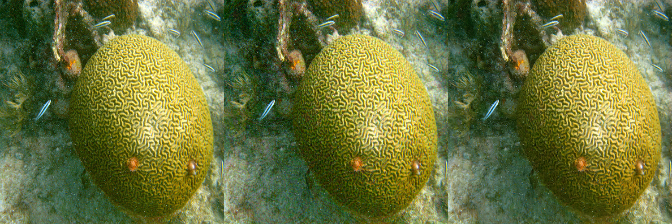
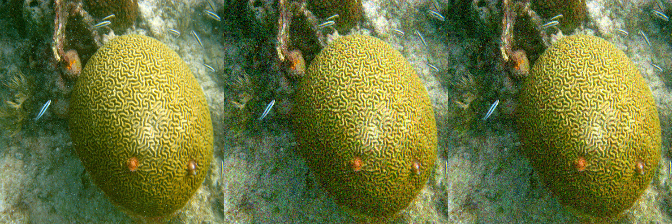
fix

Changed region(s): [[0.3125, 0.0, 1.0, 1.0]]

diff --git a/train.py b/train.py
@@ -35,7 +35,7 @@ def get_args():
                         help="training patch size")
     parser.add_argument("--batch_size", type=int, default=2,
                         help="batch size")
-    parser.add_argument("--nb_epochs", type=int, default=1,
+    parser.add_argument("--nb_epochs", type=int, default=20,
                         help="number of epochs")
     parser.add_argument("--lr", type=float, default=0.001,
                         help="learning rate")
@@ -43,15 +43,15 @@ def get_args():
                         help="steps per epoch")
     parser.add_argument("--loss", type=str, default="l0",
                         help="loss; mse', 'mae', or 'l0' is expected")
-    parser.add_argument("--weight", type=str, default="checkpoints/weights.005-7.569-38.83662.hdf5",
+    parser.add_argument("--weight", type=str, default=None,
                         help="weight file for restart")
     parser.add_argument("--output_path", type=str, default="checkpoints",
                         help="checkpoint dir")
-    parser.add_argument("--source_noise_model", type=str, default="advx,4,1",
+    parser.add_argument("--source_noise_model", type=str, default="advx&gaussian,3,1,0,30",
                         help="noise model for source images")
     parser.add_argument("--target_noise_model", type=str, default="clean",
                         help="noise model for target images")
-    parser.add_argument("--val_noise_model", type=str, default="advx,4,1",
+    parser.add_argument("--val_noise_model", type=str, default="advx&gaussian,4,1,0,30",
                         help="noise model for validation source images")
     parser.add_argument("--model", type=str, default="srresnet",
                         help="model architecture ('srresnet' or 'unet')")

diff --git a/test_model.py b/test_model.py
@@ -17,9 +17,9 @@ def get_args():
                         help="test image dir")
     parser.add_argument("--model", type=str, default="srresnet",
                         help="model architecture ('srresnet' or 'unet')")
-    parser.add_argument("--weight_file", type=str, default="checkpoints/weights.014-4.427-35.47147.hdf5",
+    parser.add_argument("--weight_file", type=str, default="advmodel.h5",
                         help="trained weight file")
-    parser.add_argument("--test_noise_model", type=str, default="advx,30,1",
+    parser.add_argument("--test_noise_model", type=str, default="advx&gaussian,30,1,0,30",
                         help="noise model for test images")
     parser.add_argument("--output_dir", type=str, default="output",
                         help="if set, save resulting images otherwise show result using imshow")
@@ -30,22 +30,6 @@ def img_resize(np_img):
     pil_img=Image.fromarray(np_img)
     img_resize = pil_img.resize((224, 224))
     return np.asarray(img_resize)
-def advx_noise(img):
-    img = cv2.cvtColor(img, cv2.COLOR_BGR2RGB)
-
-    advx_slippage=0.04141668473257668
-    img=img_resize (img)
-    img = img.astype(np.float)
-    avg_img=do_image_avg(img)
-    pert_noise=get_random_pert()
-    pert_noise+=advx_slippage
-    pert_noise=pert_noise*np.random.beta(3,1)
-    noise_img=avg_add_clip_pert(avg_img.reshape(1,224,224,3),pert_noise).astype(np.uint8)
-    noise_img=undo_image_avg(noise_img).astype(dtype='uint8')
-    noise_img = cv2.cvtColor(noise_img, cv2.COLOR_RGB2BGR)
-    #noise_img=avg_img+get_random_pert()[0]
-    #noise_img = np.clip(noise_img, 0, 255).astype(np.uint8)
-    return noise_img
 
 def get_image(image):
     image = np.clip(image, 0, 255)

diff --git a/noise_model.py b/noise_model.py
@@ -34,7 +34,7 @@ def get_noise_model(noise_type="gaussian,0,50"):
             img = img.astype(np.float)
             avg_img=do_image_avg(img)
             pert_noise=get_random_pert()
-            pert_noise+=advx_slippage
+            pert_noise-=advx_slippage
             pert_noise=pert_noise*np.random.beta(a,b)
             noise_img=avg_add_clip_pert(avg_img.reshape(1,224,224,3),pert_noise).astype(np.uint8)
             noise_img=undo_image_avg(noise_img).astype(dtype='uint8')
@@ -56,14 +56,14 @@ def get_noise_model(noise_type="gaussian,0,50"):
             img = img.astype(np.float)
             avg_img=do_image_avg(img)
             pert_noise=get_random_pert()
-            pert_noise+=advx_slippage
+            pert_noise-=advx_slippage
             pert_noise=pert_noise*np.random.beta(a,b)
             noise_img=avg_add_clip_pert(avg_img.reshape(1,224,224,3),pert_noise).astype(np.uint8)
             noise_img=undo_image_avg(noise_img).astype(dtype='uint8')
             noise_img = cv2.cvtColor(noise_img, cv2.COLOR_RGB2BGR)
 
             # gaussian noise
-            noise_img = img.astype(np.float)
+            noise_img = noise_img.astype(np.float)
             stddev = np.random.uniform(min_stddev, max_stddev)
             noise = np.random.randn(*img.shape) * stddev
             noise_img += noise

diff --git a/model.py b/model.py
@@ -55,7 +55,7 @@ def get_model(model_name="srresnet"):
 
 
 # SRResNet
-def get_srresnet_model(input_channel_num=3, feature_dim=48, resunit_num=24):
+def get_srresnet_model(input_channel_num=3, feature_dim=78, resunit_num=24):
     def _residual_block(inputs):
         x = Conv2D(feature_dim, (3, 3), padding="same", kernel_initializer="he_normal")(inputs)
         x = BatchNormalization()(x)

diff --git a/perts_util.py b/perts_util.py
@@ -34,3 +34,5 @@ def get_random_pert(path="precomputing_perturbations/"):
     target=np.random.randint(1000)+1
     v=np.load(path+"universal-target-"+str(target).zfill(5)+".npy")
     return v
+
+clac_perts_slippage()
